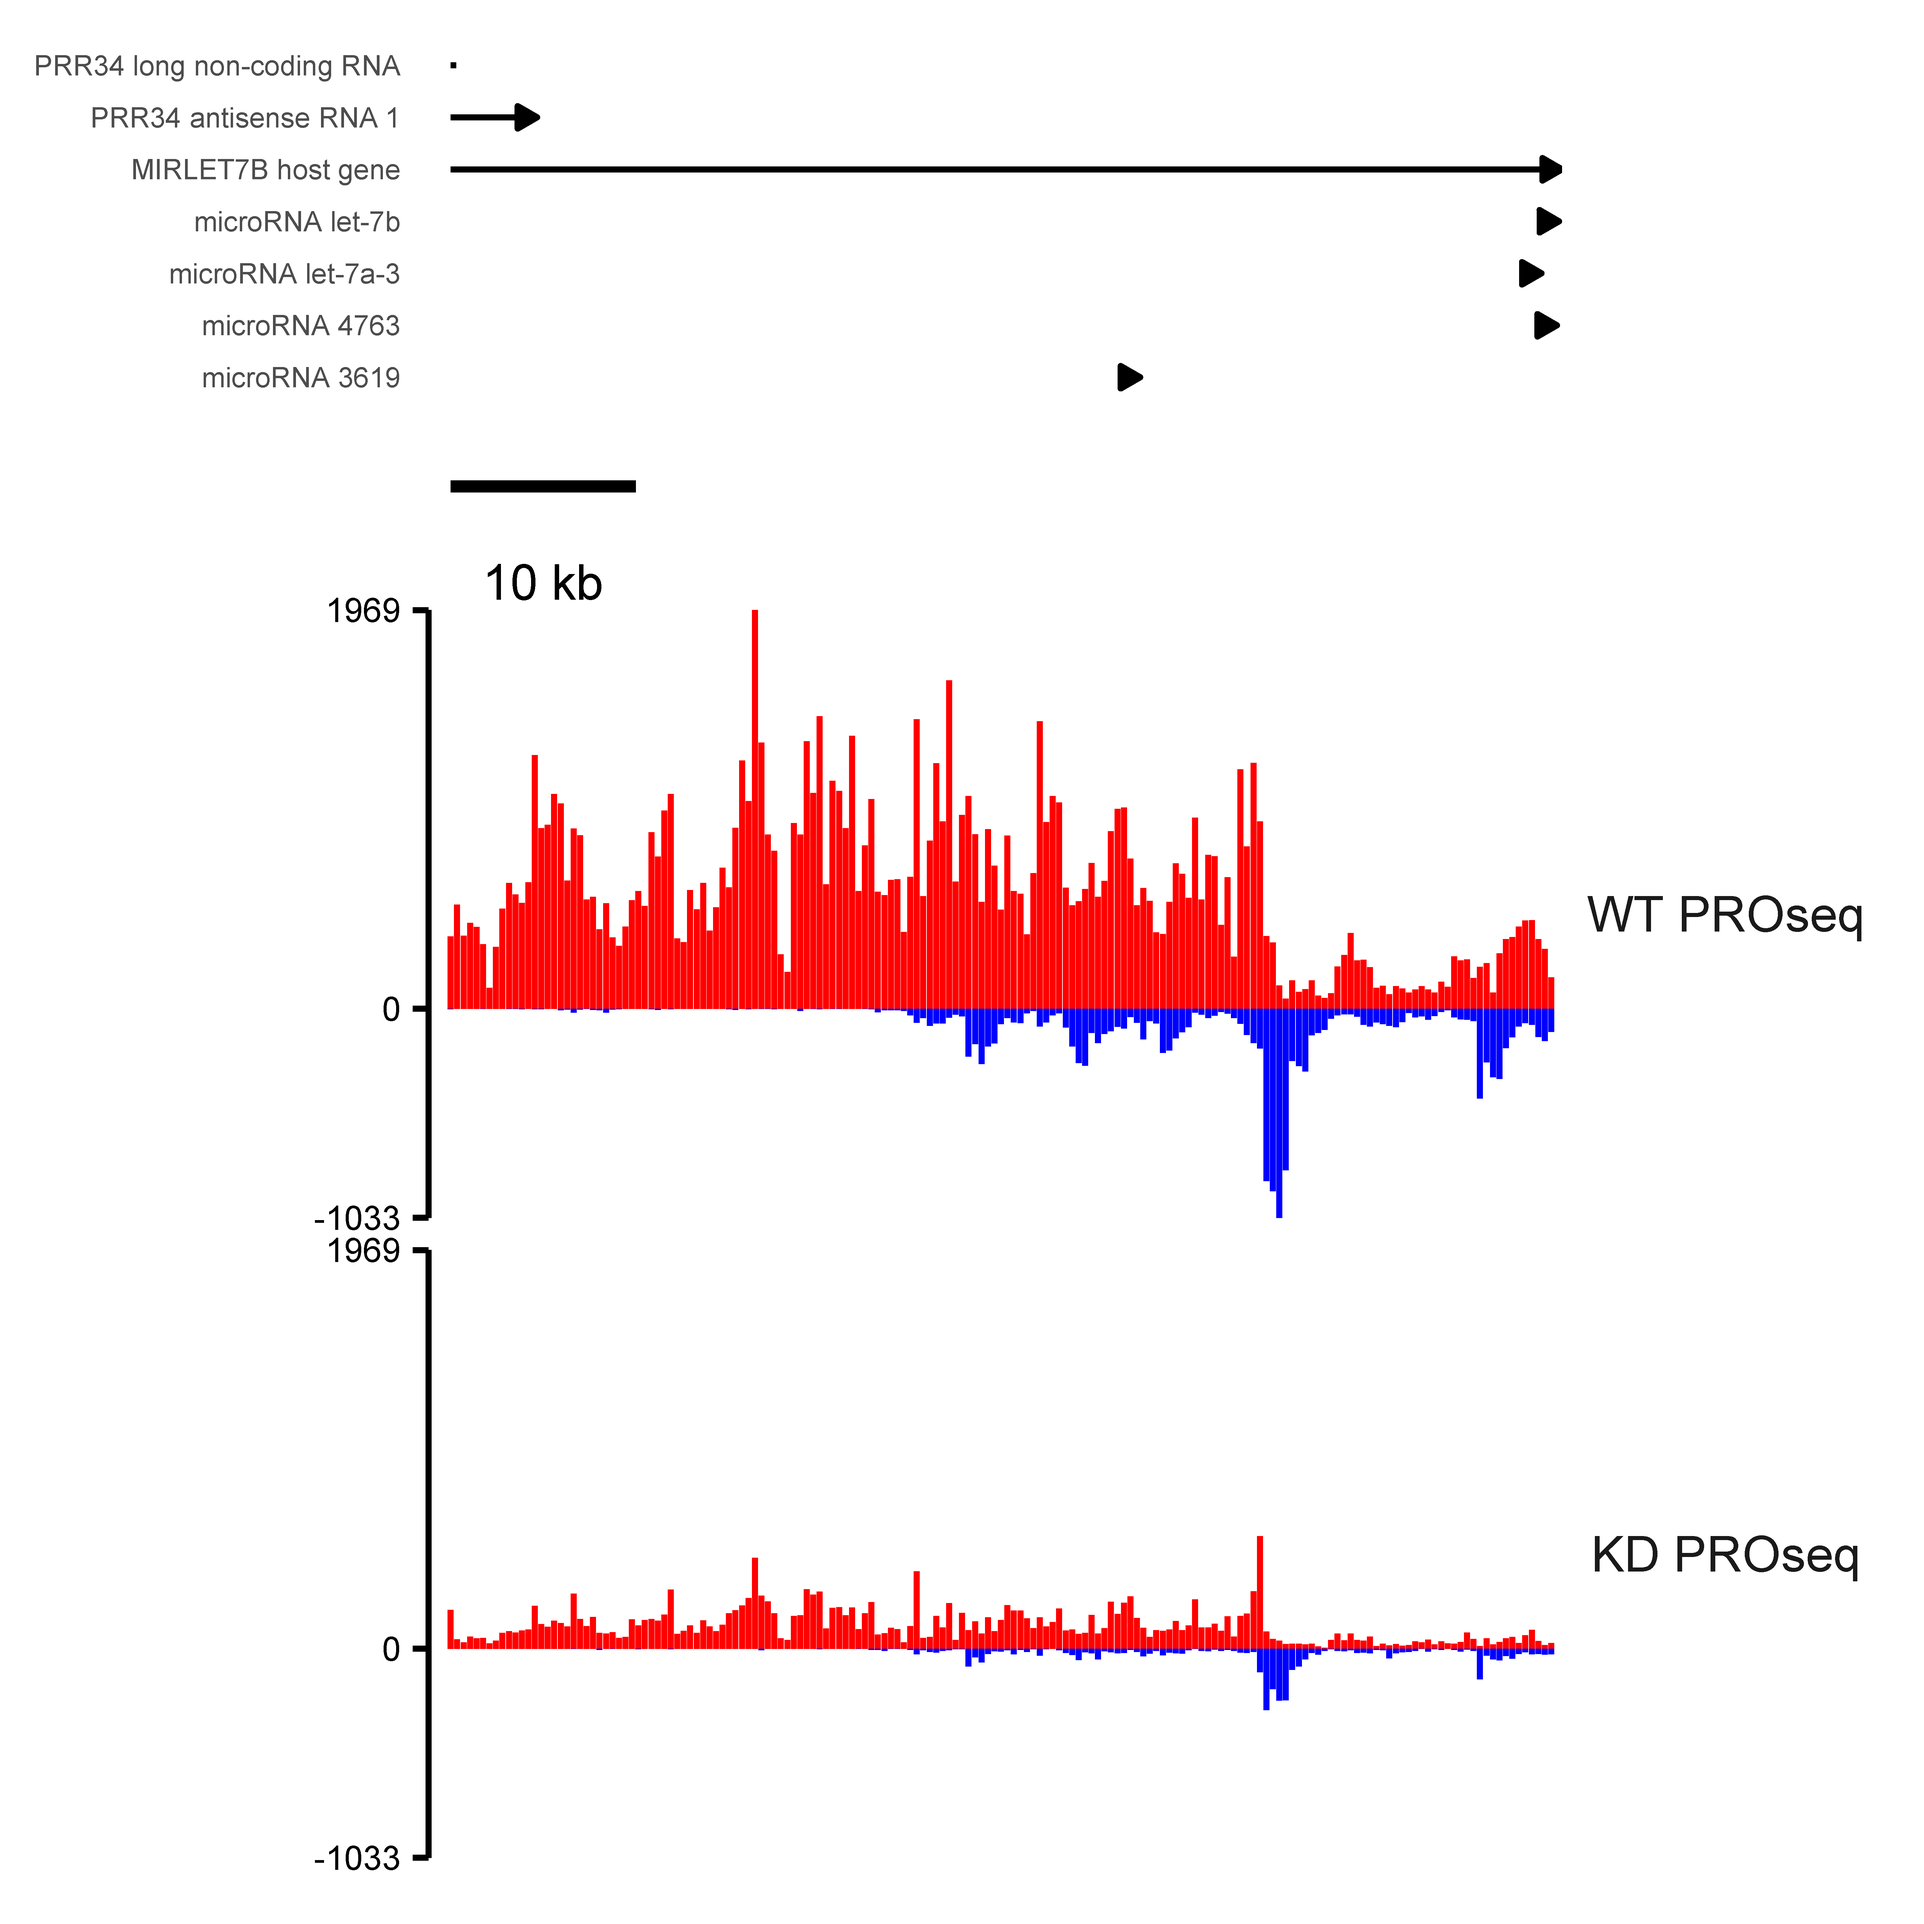
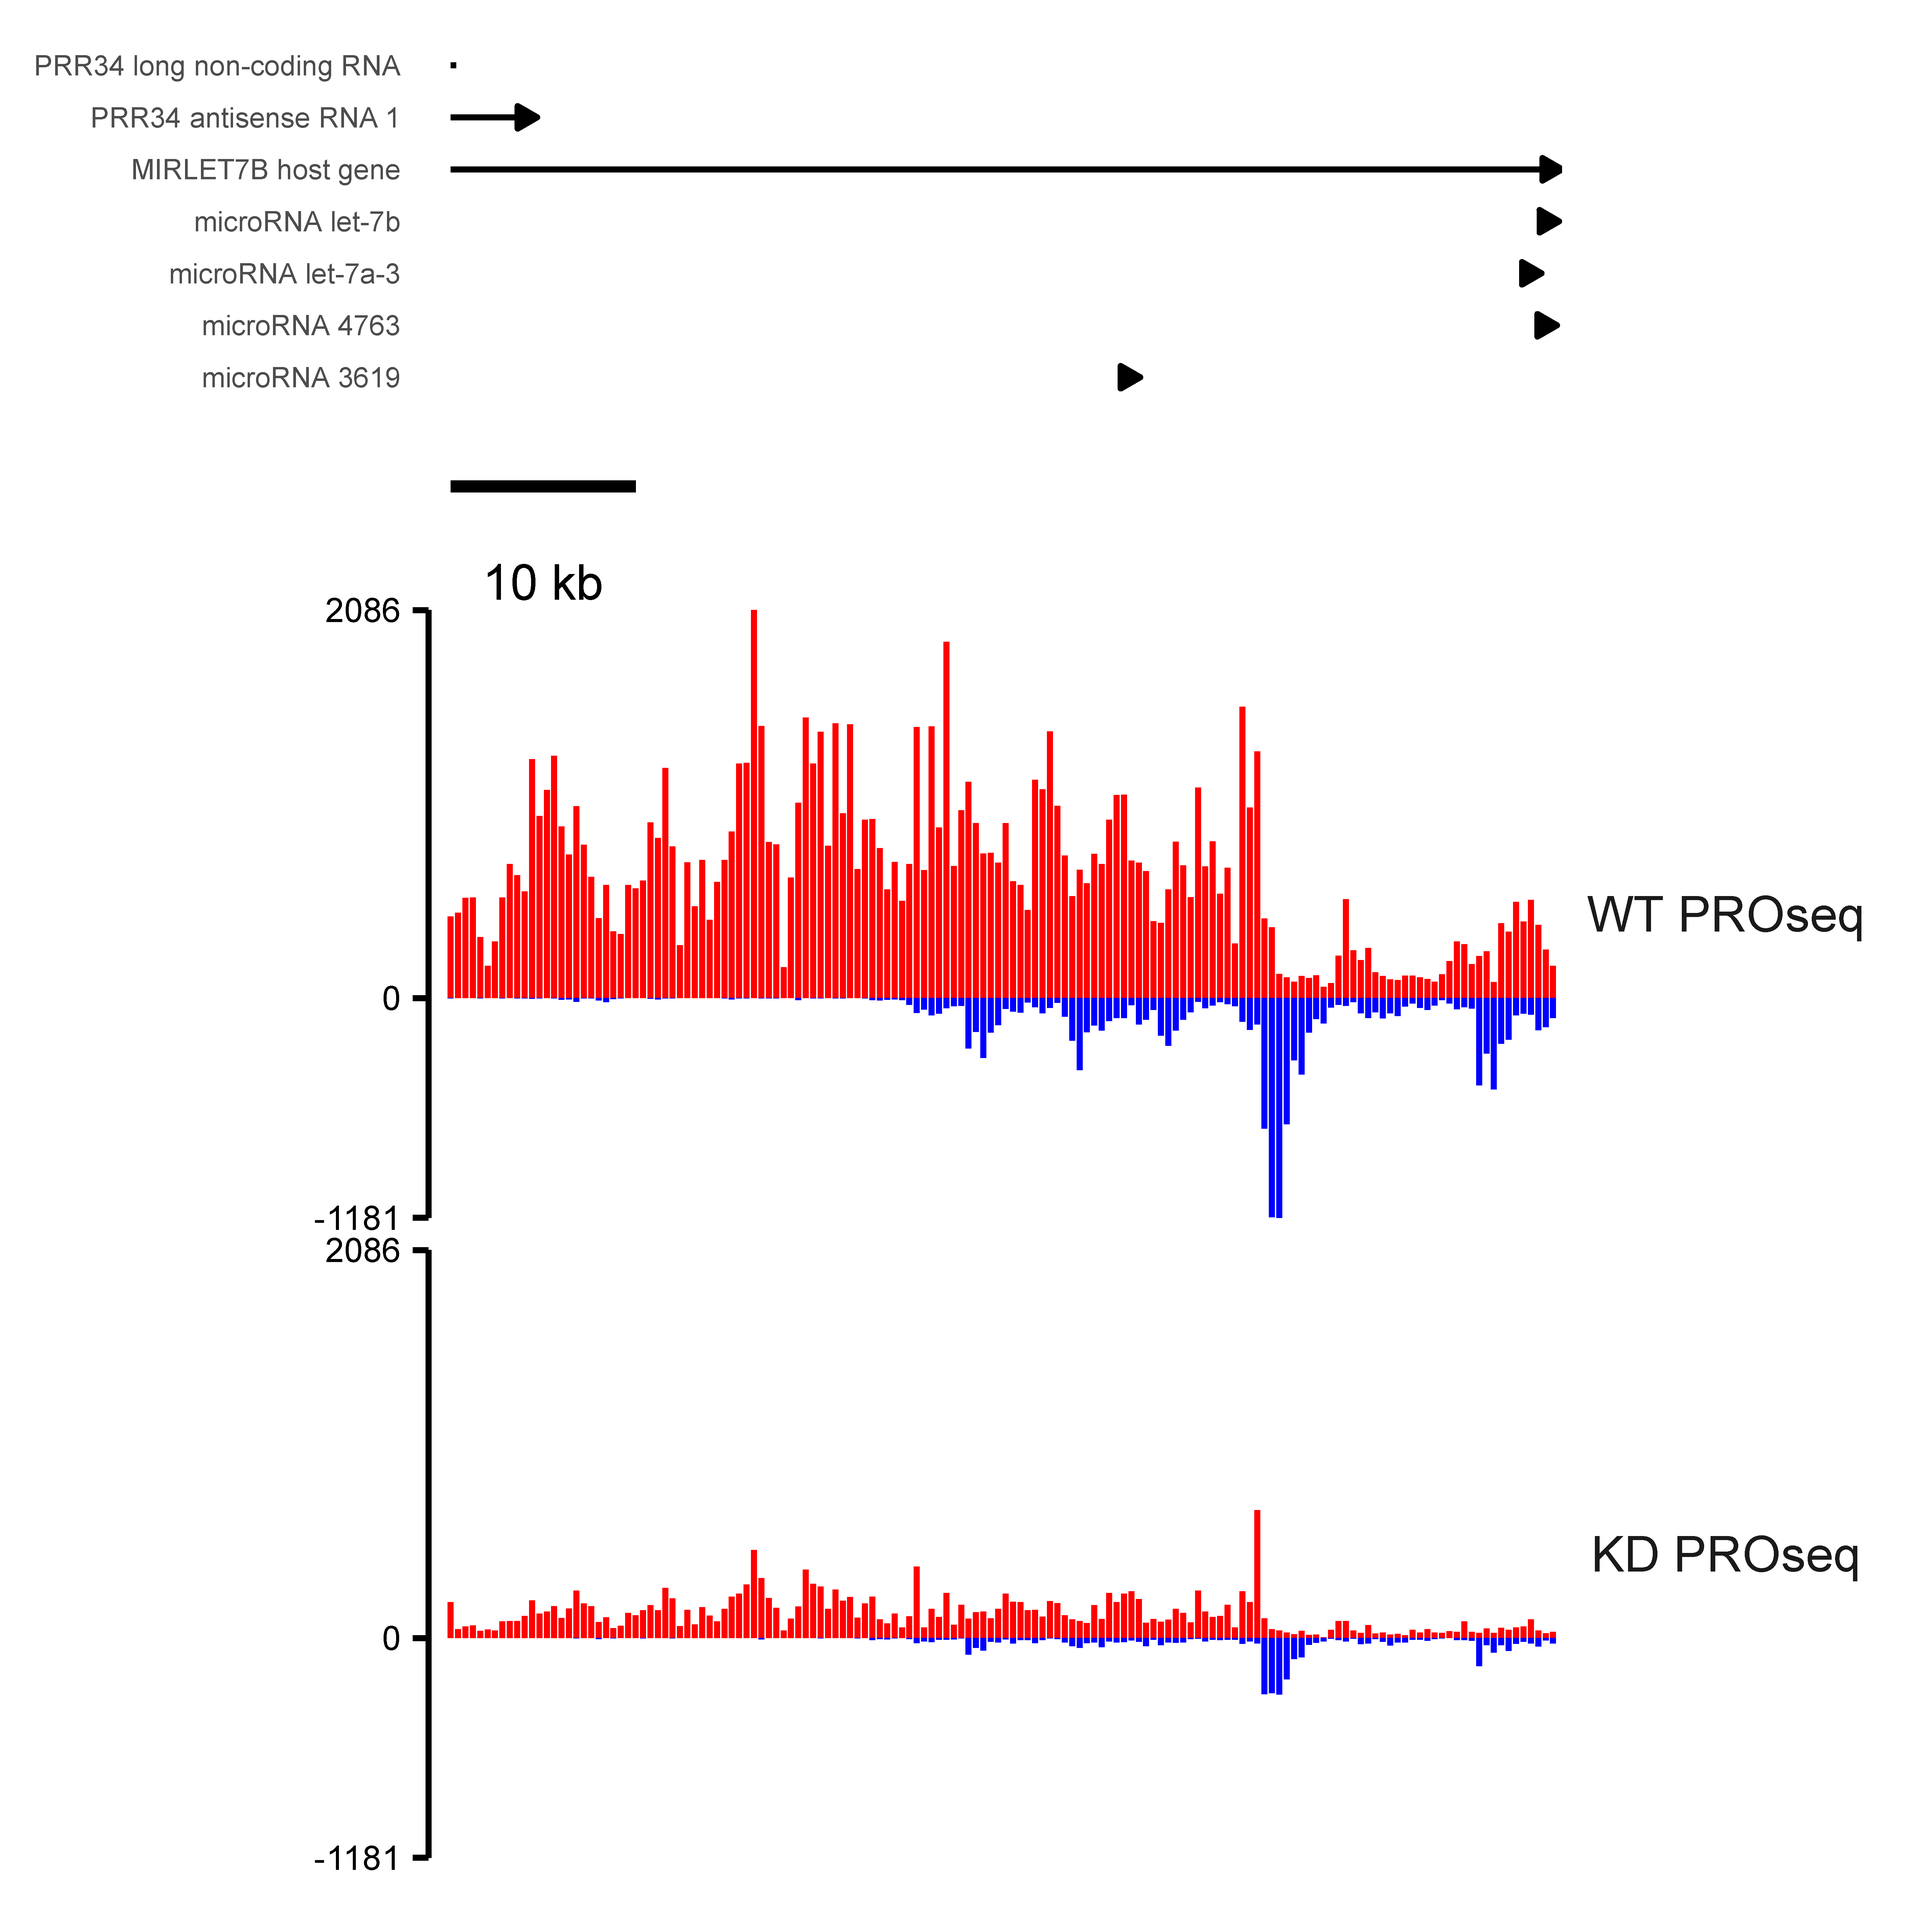
change pic sizes, typos

Changed region(s): [[0.2178, 0.3734, 0.8091, 0.6224], [0.2178, 0.8091, 0.8091, 0.9024], [0.1556, 0.6224, 0.2178, 0.6535]]

diff --git a/README.md b/README.md
@@ -1,20 +1,14 @@
-Assemble multiple tracks of publication-quality browser shots using BRGenomics
-and ggplot2.
+Assemble multiple tracks of publication-quality browser shots using
+[BRGenomics](https://mdeber.github.io) and ggplot2.
 
-Browser tracks are created independently using identical coordinate systems on
-the x-axis, and are aligned and assembled using the `patchwork` package. Any
-number of tracks or track-groups can be created and combined piecemeal, as
-demonstrated in the in the two example wrapper functions included.
+These functions independently create browser tracks using identical coordinate
+systems on the x-axis, and subsequently aligns them using the `patchwork`
+package. Any number of tracks or track-groups can be created and combined
+piecemeal, although I've also written a power wrapper function, `plot_shot()`,
+which I highly recommend.
 
-## Smoothing
-
-By default, plotting data is not smoothed, and you should check that the
-binsizes used result in accurate representations of the data, as excessive bins
-can cause overplotting.
-
-If you want to go over to the dark side and use smoothing, there is an argument
-to apply spline smoothing. If you want some other kind of smoothing, it's
-straightforward to modify the smooth function.
+For an alternative implementation also using `BRGenomics`, see Gitub
+[JAJ256/browser_plot.R](https://github.com/JAJ256/browser_plot.R).
 
 ## Requirements
 
@@ -23,6 +17,15 @@ straightforward to modify the smooth function.
 * dplyr
 * ggplot2
 
+## Limitations
+
+* Log-scaling with stranded will not plot correctly as we don't have a way of
+dealing with negative values
+* Currently a bug in `patchwork` that alters label justification only when a
+there's only a single facet level present (which is how I structured
+`plot_shot()`) ([Github issue 163](
+https://github.com/thomasp85/patchwork/issues/163))
+
 ## User Guide
 
 ### Importing Data
@@ -30,20 +33,16 @@ straightforward to modify the smooth function.
 `rtracklayer` and/or `BRGenomics` can be used to import `bigWig`, `bedGraphs`,
 or `bam` files as `GRanges` objects for plotting.
 
-The main plotting function can take any number of `GRanges` objects, lists of
-`GRanges` objects, or `GRangesList` objects as arguments. The only important
-distinction is that data within the same list will share the same y-axis
-scaling.
-
 ``` r
 ps_ctrl_granges <- import_bigWig("~/path/to/plus.bw",
                                  "~/path/to/minus.bw",
                                  genome = "hg19")
 # etc
 ```
-
-And we'll group data sharing y-axis scaling into the same list. The names given
-to these list elements will be used for plotting.
+The main plotting function can take any number of `GRanges` objects, lists of
+`GRanges` objects, or `GRangesList` objects as arguments. The only important
+distinction is that data within the same list will share the same y-axis
+scaling.
 
 ``` r
 PROseq <- list("WT PROseq" = ps_ctrl_granges,
@@ -55,6 +54,9 @@ PROcap <- list("WT PROcap" = pc_ctrl_granges,
 _[*] Lists can also be imported simultaneously with `import_bigWig()` For more,
 see the BRGenomics guide for [Importing & Processing Data](
 https://mdeber.github.io/articles/ImportingProcessingData.html)._
+
+If you use lists, the names given to these list elements will be the plot
+labels.
 
 Plot regions are given by a `GRanges` object containing a single range. We'll
 get one from a `TxDb` object, which will also allow us to plot full gene models.
@@ -118,23 +120,23 @@ plot_shot(PROcap, PROseq, GC = GC_Content,
           ylim = list(GC = c(0, 100)),
           annotations = txdb)
 ```
-![](shot1.png)
+<img src="shot1.png" width="600" height="800" alt="centered image" /> \
 
 Take note of a few things above:
 
 * `PROcap` and `PROseq` are both lists, but `GC_Content` is a simple `GRanges`
 object. Everyone is welcome in the dots.
-* I declared `GC = GC_Content` in order to set the plot label on the fly. That
-will work as long as you don't try to set a label to "pad_left" or "bin_FUN"
-or something.
+* I declared `GC = GC_Content` in order to set the plot label on the fly.
 * I gave a list of arguments to `expand_ranges`, one for each dataset group. You
-can give unnamed list so long as its length matches the number of dataset
+can give an unnamed list so long as its length matches the number of dataset
 groups.
 * For `bin_FUN` and `ylim`, I gave a named list indicating which plots to
 modify. Everything else is set to the default.
 * The `ylim`s are the same for both `PROcap` datasets and the `PROseq` datasets.
-The default is to add up data within 250 bins across the plotting region, but
-you should check to make sure the binning is appropriate to avoid overplotting.
+
+The default binning setting is to add up data within 250 bins across the
+plotting region, but you should check to make sure the binning is appropriate to
+avoid overplotting.
 
 Smoothing is graciously disabled by default, but you can activate it if you like
 to do sad science. I'll add a silver lining by tweaking the axes a bit.
@@ -150,9 +152,9 @@ plot_shot(PROcap, PROseq, GC = GC_Content,
           smooth = list(GC = TRUE),
           annotations = txdb)
 ```
-![](shot2.png)
+<img src="shot2.png" width="600" height="800" alt="centered image" /> \
 
-Wow, look at the dishonesty. This might as well be IGV! I just didn't have the
+Wow, look at the dishonesty. This might as well be **_IGV_**! I didn't have the
 heart to smooth the sequencing data.
 
 Let's do one more, this time without supplying a `TxDb` object. Instead, we'll
@@ -169,7 +171,7 @@ plot_shot(PROcap, PROseq, GC = GC_Content,
           smooth = FALSE, # peace for our time
           annotations = txsr, gene_names = names(txsr))
 ```
-![](shot3.png)
+<img src="shot3.png" width="600" height="800" alt="centered image" /> \
 
 I'll be nice and show you how I got the gene names, but _only_ because you know
 the profound consequences of plot smoothing on representing high-resolution,
@@ -201,16 +203,7 @@ The above functions will all produce data on identical x-axes, and the
 ``` r
 shot_genearrow(region, my_genelist, gene_names = my_genelist$symbol) +
     shot_scalebar(region = my_region) +
-    shot_stranded(PROseq, my_region, binsize = 350) +
+    shot_stranded(PROseq, my_region, binsize = 400) +
     plot_layout(heights = c(0.3, 0.1, 1), ncol = 1)
 ```
-![](shot4.png)
-
-## Limitations
-
-* Log-scaling will not plot correctly as negative signal values in stranded data
-cannot be handled correctly.
-* Currently a bug in `patchwork` that alters label justification only when a
-there's only a single facet level present (which is how I structured
-`plot_shot()`) ([Github issue 163](
-https://github.com/thomasp85/patchwork/issues/163))
+<img src="shot4.png" width="600" height="600" alt="centered image" /> \
